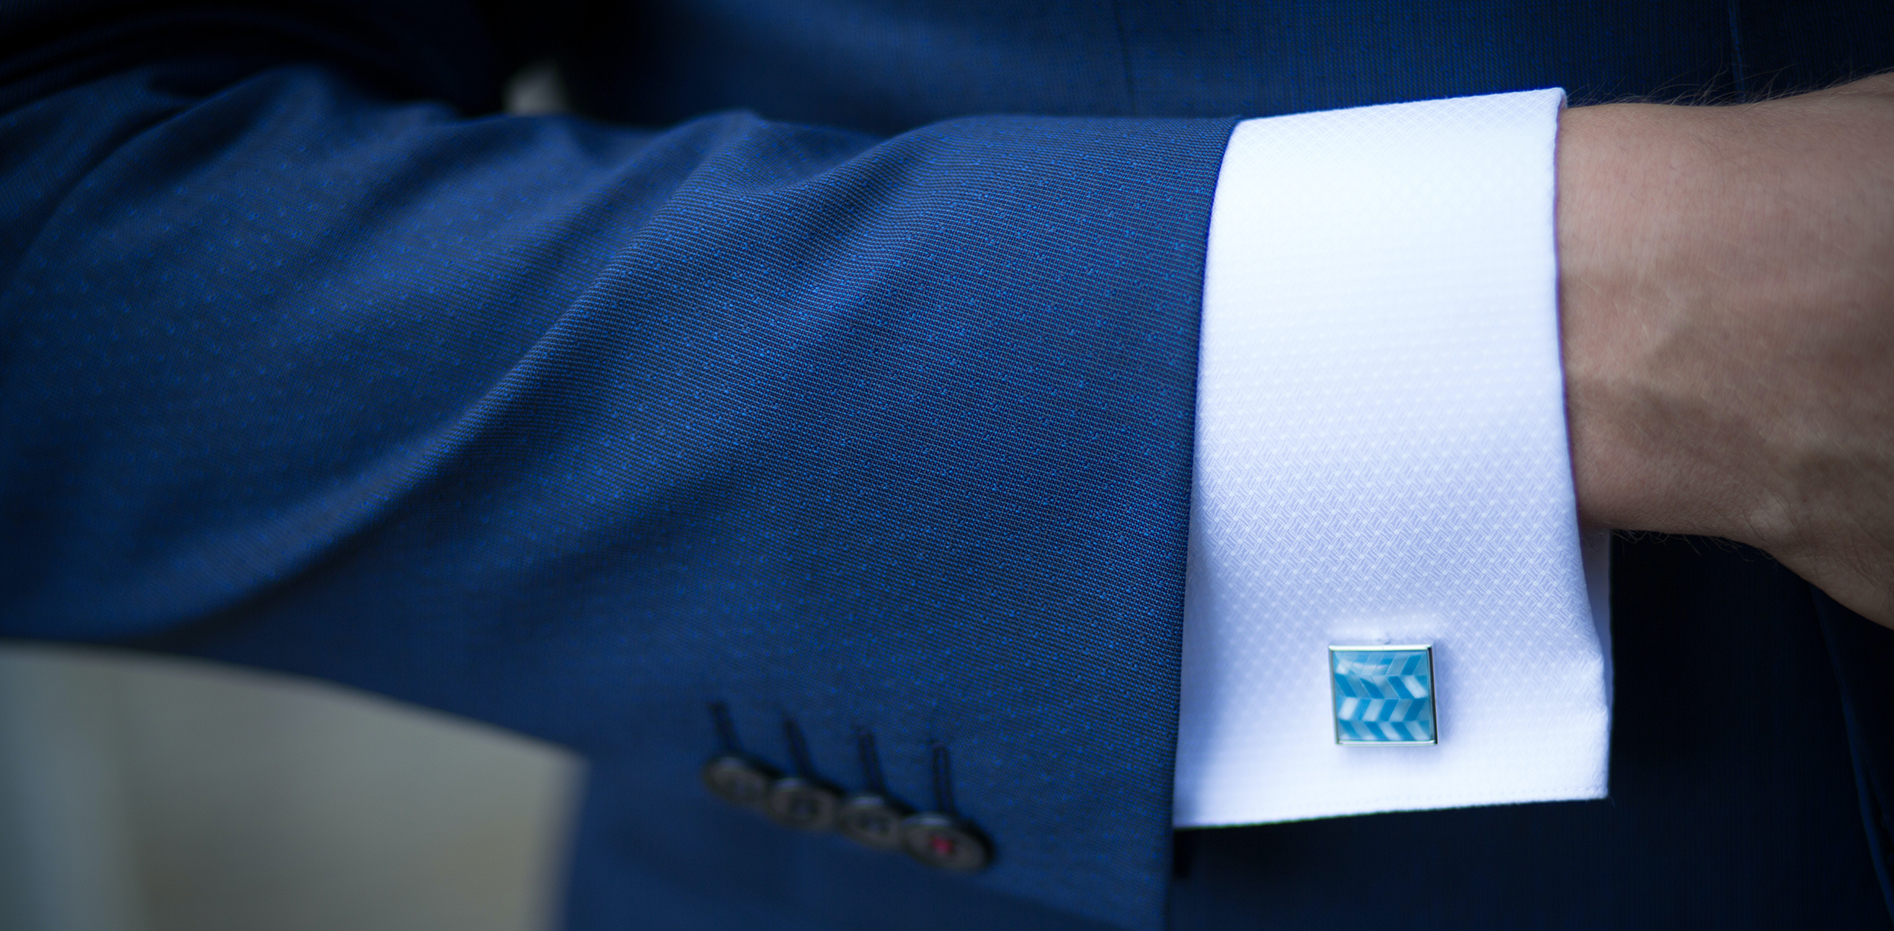
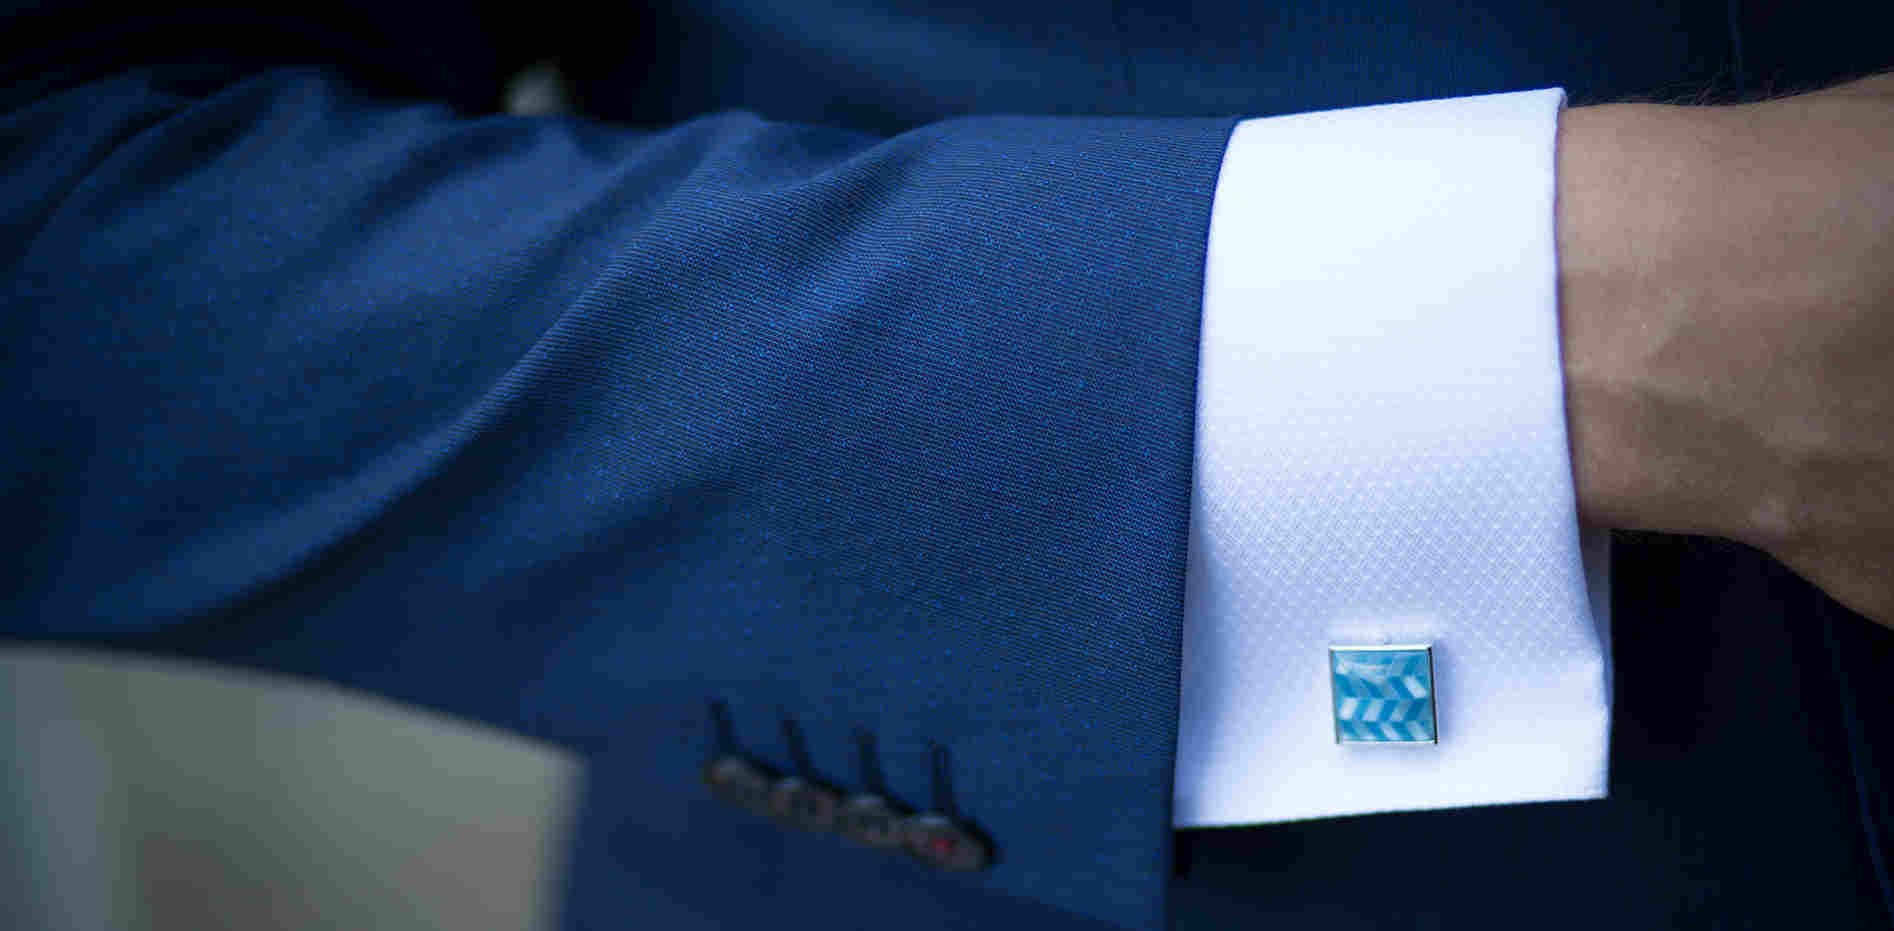
more image size reduced

Changed region(s): [[0.1558, 0.1246, 0.6542, 0.8722]]

diff --git a/index.html b/index.html
@@ -311,7 +311,7 @@
                         <div class="team-detail">
                             <ul>
                                 <li>
-                                    <h3>Jerie Ramesh</h3>
+                                    <h3>Adv. Jerie Ramesh</h3>
                                 </li>
                                 <li>
                                     <h4>Partner</h4>
@@ -328,7 +328,7 @@
                         <div class="team-detail">
                             <ul>
                                 <li>
-                                    <h3>Bento Paulson</h3>
+                                    <h3>Adv. Bento Paulson</h3>
                                 </li>
                                 <li>
                                     <h4>Partner</h4>
